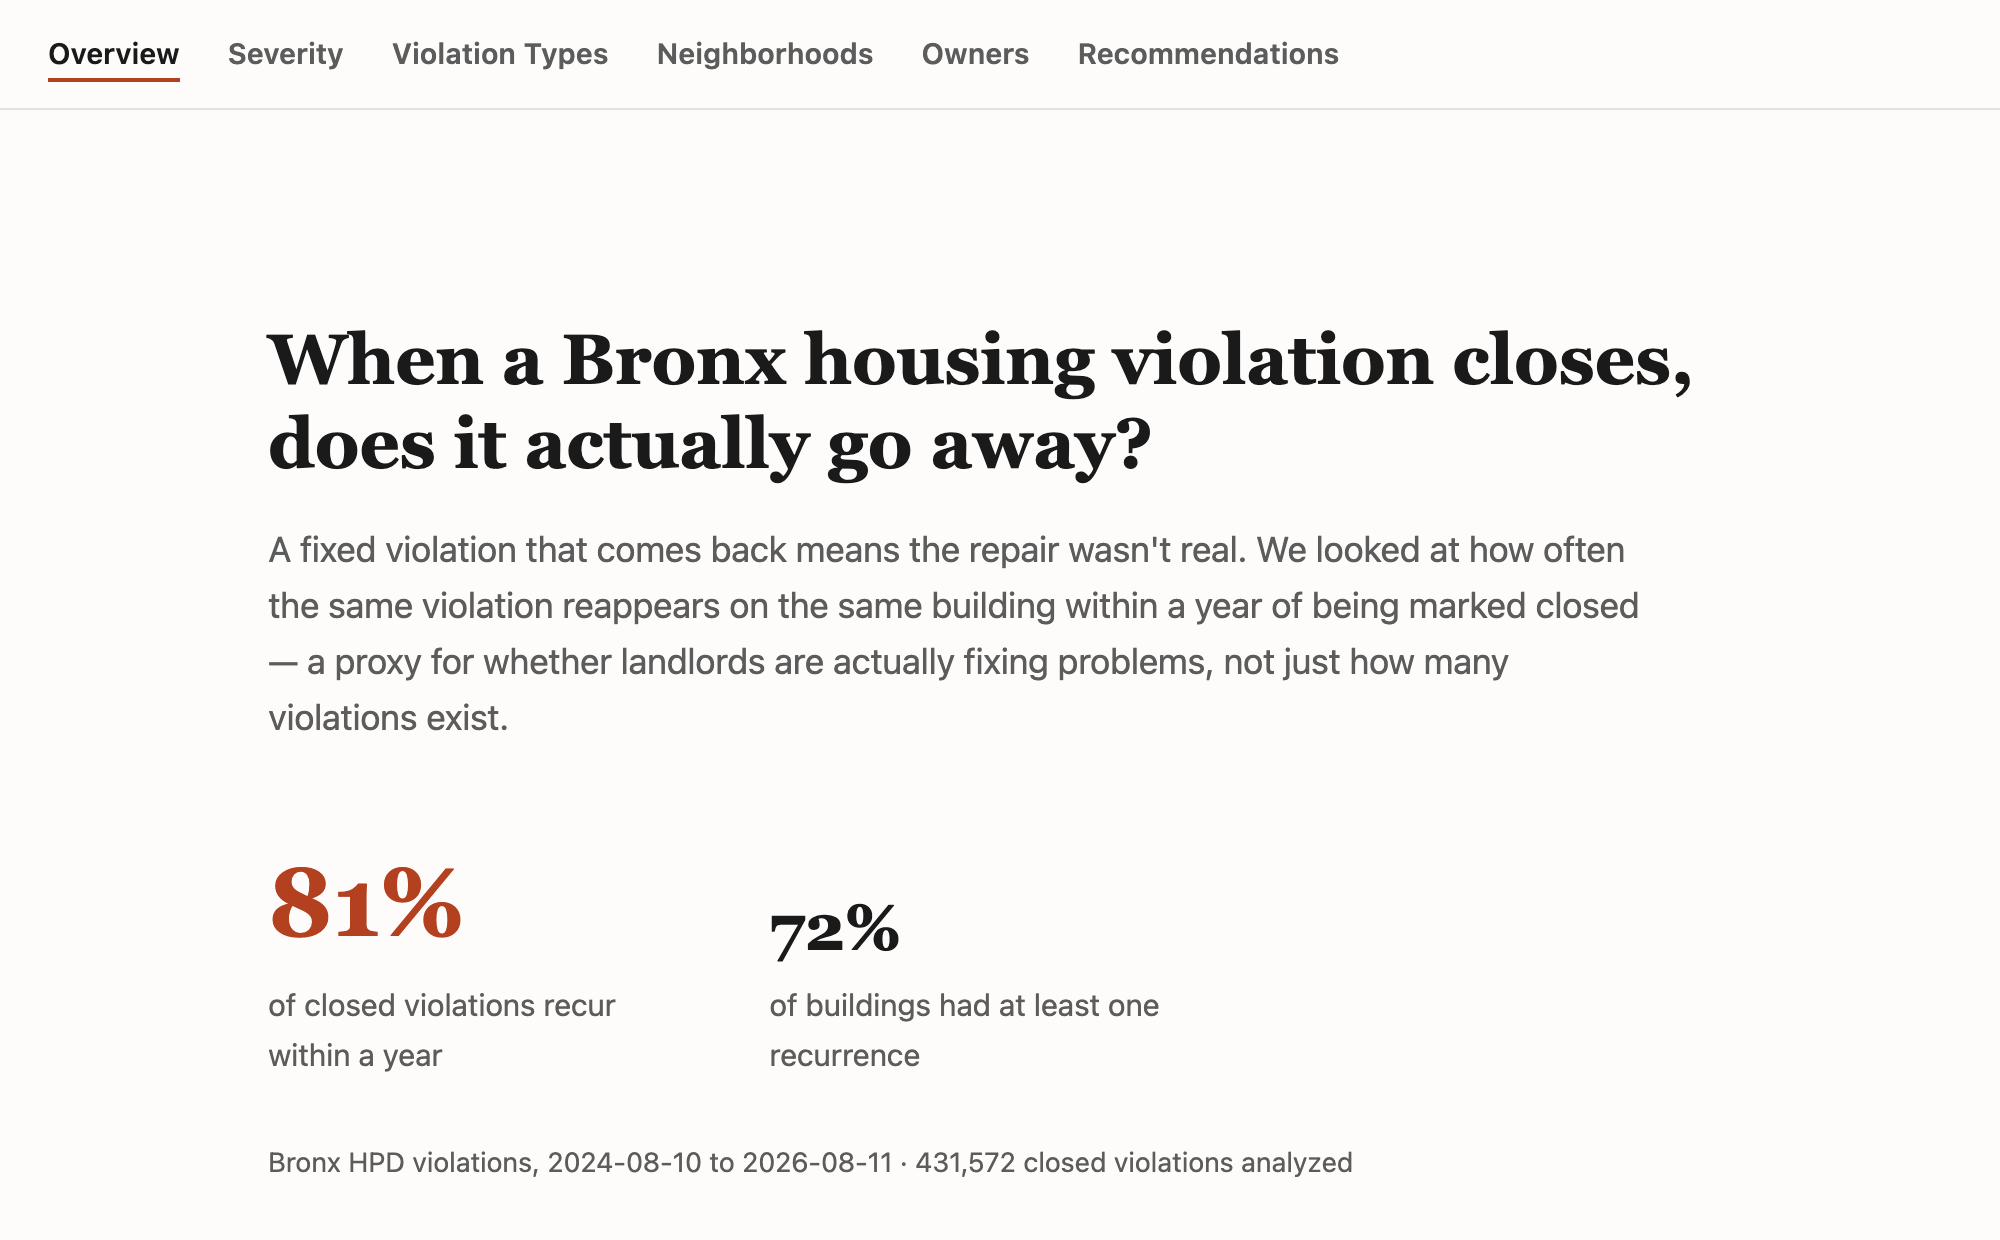
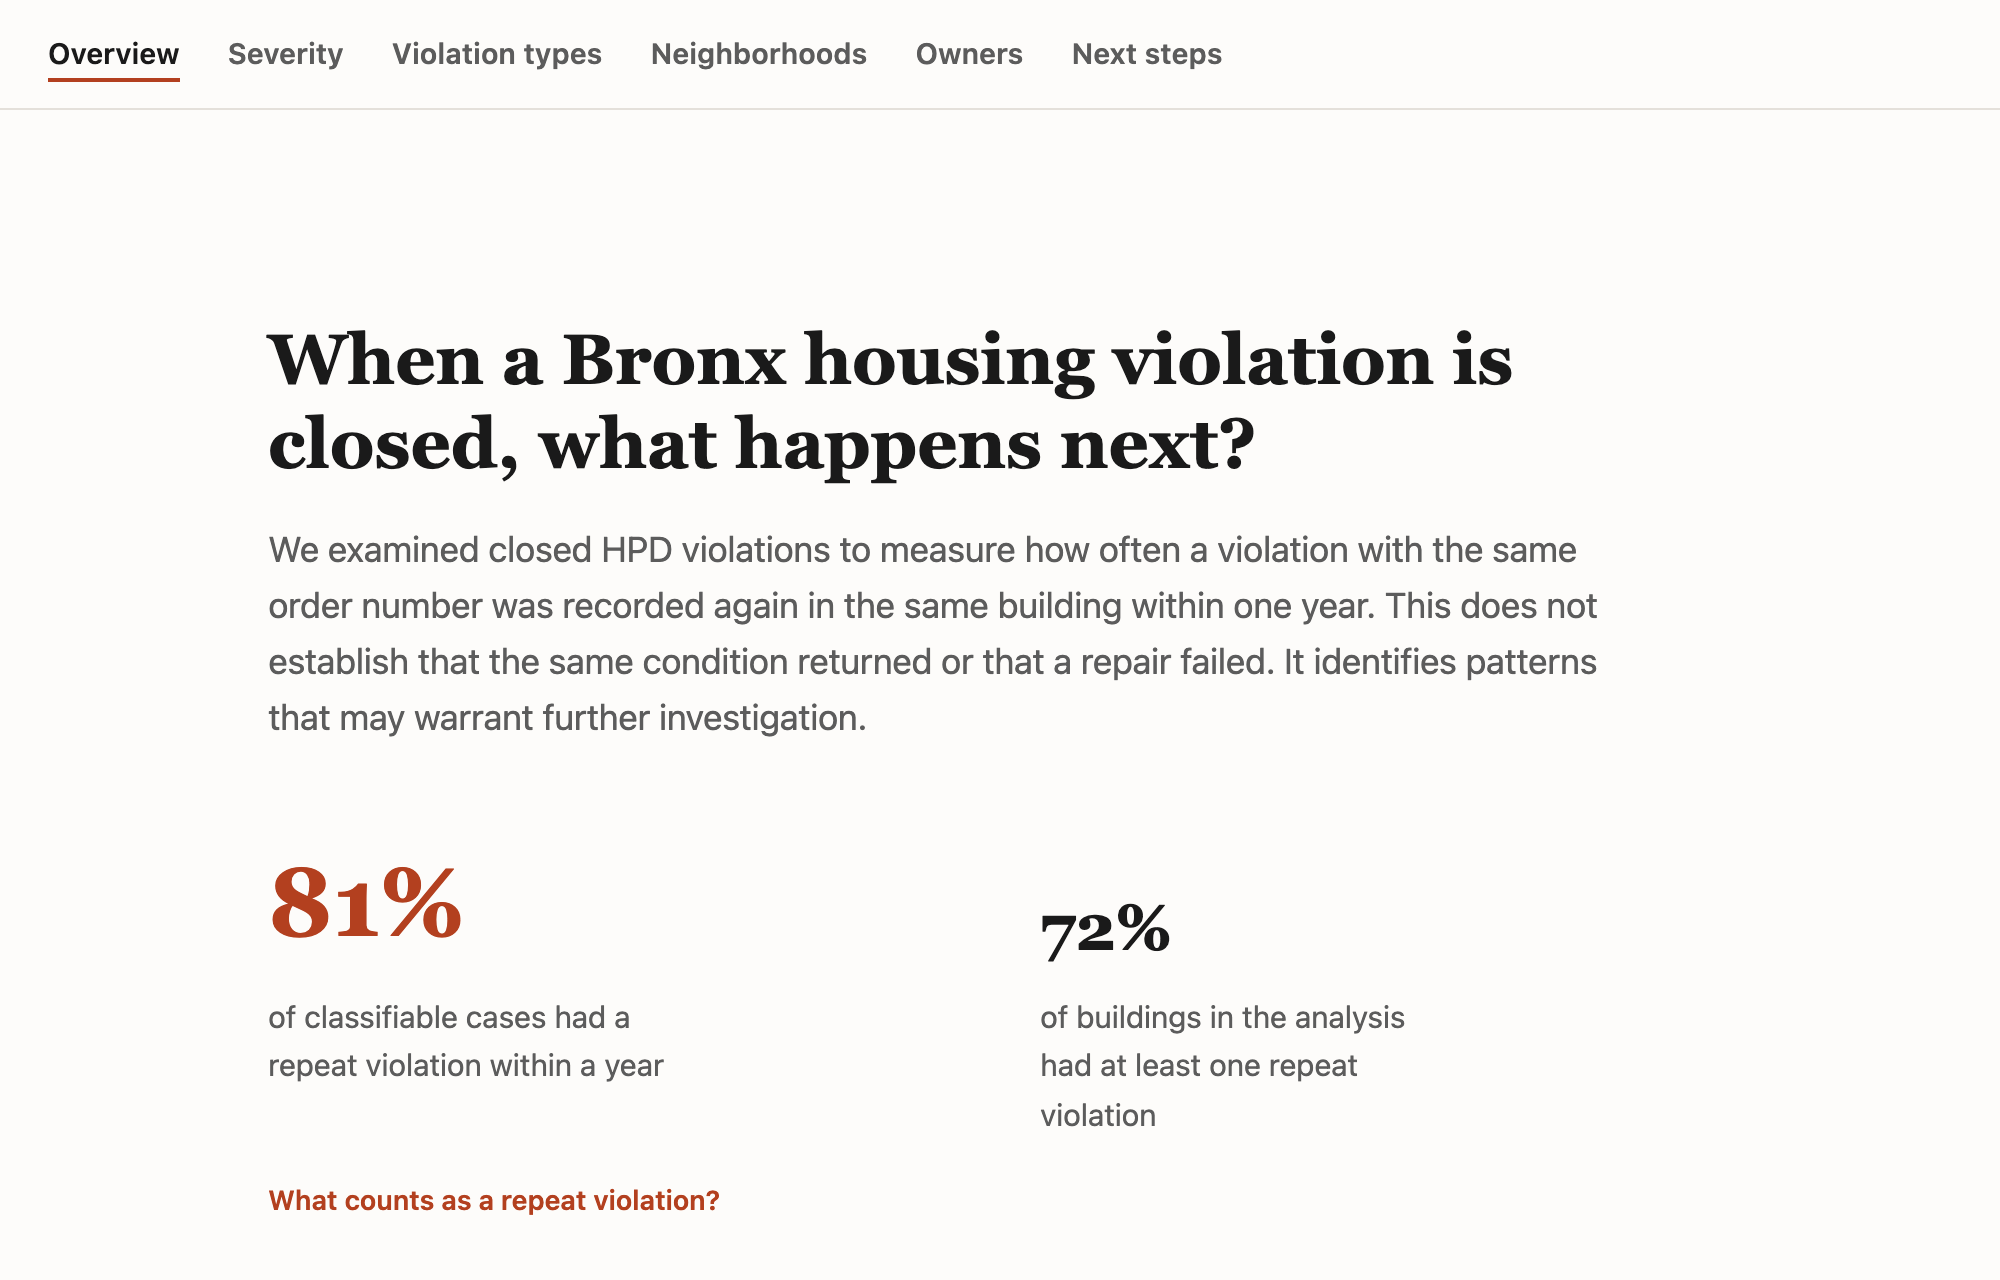
update readme (#5)

diff --git a/README.md b/README.md
@@ -10,17 +10,20 @@ Built with a fully static architecture — a Node pipeline pulls and analyzes th
 
 ## The finding
 
-Across 431,572 closed violations in the Bronx (2024–2026), **81% recur within a year** of being closed. Severity class barely matters — Class C ("immediately hazardous") violations recur at nearly the same rate as lower-severity ones, suggesting the close-out process itself, not the violation type, is the weak point. The site breaks this down by severity, violation category, neighborhood, and property owner, with a methodology section covering the statistical choices behind the numbers.
+Across 431,572 closed violations in the Bronx (2024–2026), **81% had a repeat violation** — the same building, same HPD order number, recorded again within a year — among the cases with enough follow-up time to know either way. Severity barely predicts it: Class B and Class C violations repeat at nearly identical rates (83.6% vs. 82.8%), both well above Class A (74.7%) — the most urgent violations aren't any less likely to come back than the merely-hazardous ones. The site breaks this down by severity, violation category (with a from-scratch classification system, see below), neighborhood, and property owner, with a methodology section covering the statistical choices behind the numbers.
 
 ![Neighborhood choropleth](docs/screenshots/neighborhoods.png)
 
 ## Why this project is interesting technically
 
 - **Real dataset, real scale.** Not a toy CSV — pulls directly from NYC Open Data's Socrata API (8.3M+ rows citywide before filtering), using **keyset pagination** (`WHERE id > last_seen_id`, not `OFFSET`) so fetch time stays linear instead of degrading as the dataset grows.
-- **Survival-analysis-style censoring.** A violation closed 3 weeks ago hasn't had a fair chance to "recur" within the 365-day window yet — counting it as a negative would bias the rate downward. Those cases are explicitly tracked as **censored** and excluded from the rate, not silently miscounted.
-- **Statistical guardrails against small-sample noise.** Every rate-based ranking (by violation type, neighborhood, owner) enforces a minimum volume floor before a rate is shown, and the methodology section includes a scatterplot that visually demonstrates *why* — low-volume buildings scatter across the full 0–100% range, high-volume ones converge.
+- **Survival-analysis-style censoring.** A violation closed 3 weeks ago hasn't had a fair chance to repeat within the 365-day window yet — counting it as a negative would bias the rate downward. Those cases are explicitly tracked as **censored** and excluded from the rate, not silently miscounted.
+- **A 4-category violation classification system, built by actually reading the data.** The raw dataset has no "is this a physical repair vs. paperwork vs. a legal order" field — violation types are extracted from free-text legal citations, then hand-audited into `physical_condition` / `administrative_or_posting` / `enforcement_or_legal_status` / `mixed_or_unresolved`, with every judgment call documented inline in the source. Chasing down the generic "unclassifiable" bucket surfaced three genuinely distinct real violation types hiding inside it (including a bedbug-law requirement that isn't the same as the two other bedbug-related violation types already identified), resolved with narrowly-scoped text normalization — validated against all 653K raw rows, not just the visible sample.
+- **A denominator bug in the main chart, caught before it shipped.** The overall-recurrence donut originally plotted three segments (repeat / no-match / too-recent) by raw count, so the chart's *visual* proportions were a share of all closed violations while the headline "81%" was a share of only the classifiable subset — same numbers, different bases, silently inconsistent. Fixed by extracting the math into a standalone, tested module (`src/lib/donut.js`) so the chart's geometry and its headline number are provably using the same denominator, with too-recent cases reported separately instead of folded into a misleading third slice.
+- **A neighborhood map legend that doesn't lie by omission.** Fixed, hand-chosen rate bins (not quantiles, so a bin's meaning doesn't silently shift on the next data refresh), an explicit gray "insufficient data" bucket instead of coloring low-volume neighborhoods as if their rate were trustworthy, and a choropleth that's keyboard- and touch-accessible — not hover-only — with a full data table underneath for anyone who wants exact numbers without pointing at a map.
+- **Volume-floor guardrails explained, not just applied.** Every rate-based ranking (violation type, neighborhood, owner) requires at least 25 classifiable cases before a rate is shown. The methodology section makes the reasoning concrete with side-by-side illustrative examples (1-for-1 = 100%, meaningless; 22-for-25 = 88%, usable) instead of a chart — the same point, without a charting dependency or an axis a reader has to interpret.
+- **A real test suite, not just a working demo.** 31 tests via Node's built-in `node:test` runner — zero new dependencies, matching the pipeline's existing native-fetch, no-HTTP-library philosophy. Tests cover the classification/eligibility logic, that every category bucket is mutually exclusive and accounted for, the donut's numerator/denominator/reconciliation math, and that the map's legend bins have no gaps or overlaps against the real generated data — run with `npm test`.
 - **Security-conscious pipeline design.** The Socrata API token lives only in a gitignored `.env`, read only inside a standalone Node script (`scripts/fetch-data.js`) that never ships to the browser. The React app only ever fetches pre-computed static JSON — no live API calls, no credentials in the client bundle, deployable anywhere as pure static files.
-- **Self-derived data categorization.** The dataset has no clean "violation type" field — violation types were extracted from free-text legal citations via regex, with a specific compliance-cadence category (an annual bedbug-filing requirement) identified and visually distinguished from genuine repeat-repair failures rather than skewing the analysis.
 - **Debugged real rendering bugs, not just logic bugs.** Caught and fixed a Chromium compositing issue where Leaflet's internally-transformed map panes could visually bleed through a sibling `position: sticky` nav bar despite correct z-index — root-caused via live `getBoundingClientRect()`/computed-style inspection rather than guessing, and fixed with a proper CSS stacking-context boundary (`isolation: isolate`).
 - **Automated data refreshes.** A scheduled GitHub Actions workflow re-runs the fetch pipeline monthly and commits updated data automatically, so the analysis doesn't go stale.
 
@@ -30,8 +33,9 @@ Across 431,572 closed violations in the Bronx (2024–2026), **81% recur within 
 |---|---|
 | Data pipeline | Node.js (native `fetch`, no HTTP client dependency) |
 | Frontend | React 19 + Vite |
-| Charts | Recharts (bar, donut, log-scale scatter) |
-| Map | react-leaflet + Leaflet, custom single-hue choropleth |
+| Charts | Recharts (bar, donut) |
+| Map | react-leaflet + Leaflet, custom single-hue choropleth with fixed legend bins |
+| Testing | `node:test` (built-in, zero dependencies) |
 | Styling | Hand-written CSS, no framework |
 | Automation | GitHub Actions (scheduled cron + manual dispatch) |
 
@@ -45,11 +49,11 @@ scripts/fetch-data.js   →  public/data/*.json, *.geojson   →   React app (st
 
 `scripts/fetch-data.js` is a standalone script — never imported by the app — that:
 1. Pulls Bronx violations from Socrata via keyset pagination, with a local disk cache to avoid re-hitting the API during development
-2. Computes recurrence, censoring, and severity/neighborhood/owner/violation-type aggregations
+2. Computes repeat-violation status, censoring, and severity/neighborhood/owner/violation-type aggregations, including the 4-category classification described above
 3. Pulls and trims official NYC NTA (neighborhood) boundary polygons for the choropleth
 4. Writes everything to small static JSON/GeoJSON files under `public/data/`
 
-The React app (`src/`) only ever reads those static files via `fetch('/data/...')` — it has no knowledge of Socrata, the API token, or any live data source.
+The React app (`src/`) only ever reads those static files via `fetch('/data/...')` — it has no knowledge of Socrata, the API token, or any live data source. Pure data-shaping logic that needs to be correct (the donut's math, the map's legend bins) lives in small, independently-tested modules under `src/lib/`.
 
 ## Running locally
 
@@ -62,6 +66,8 @@ npm run dev
 
 `npm run fetch-data` only needs to be re-run when you want fresh data — the site itself (`npm run dev` / `npm run build`) just reads the already-generated static files.
 
+Run the test suite with `npm test` (31 tests, no build step required).
+
 ## Data & limitations
 
-Source: [NYC HPD Housing Maintenance Code Violations](https://data.cityofnewyork.us/Housing-Development/Housing-Maintenance-Code-Violations/wvxf-dwi5) (Socrata dataset `wvxf-dwi5`). This data tracks violation *records*, not verified ground truth — it can't distinguish a landlord neglecting a repair from a genuinely hard-to-fix piece of infrastructure, and owner-level analysis is limited to HPD registration numbers since the dataset doesn't include owner names (a full portfolio view would require joining HPD's separate Registration Contacts dataset).
+Source: [NYC HPD Housing Maintenance Code Violations](https://data.cityofnewyork.us/Housing-Development/Housing-Maintenance-Code-Violations/wvxf-dwi5) (Socrata dataset `wvxf-dwi5`). This data tracks violation *records*, not verified ground truth — a repeat violation record doesn't establish that the same physical condition returned or that a repair failed, and it can't distinguish a landlord neglecting a repair from a genuinely hard-to-fix piece of infrastructure. The violation-category classification (physical condition vs. administrative vs. enforcement) is a hand-reviewed best effort against free-text legal citations, not an official HPD taxonomy — a small number of codes are honestly labeled "could not confidently classify" rather than forced into a bucket. Owner-level analysis is limited to HPD registration numbers since the dataset doesn't include owner names (a full portfolio view would require joining HPD's separate Registration Contacts dataset).
